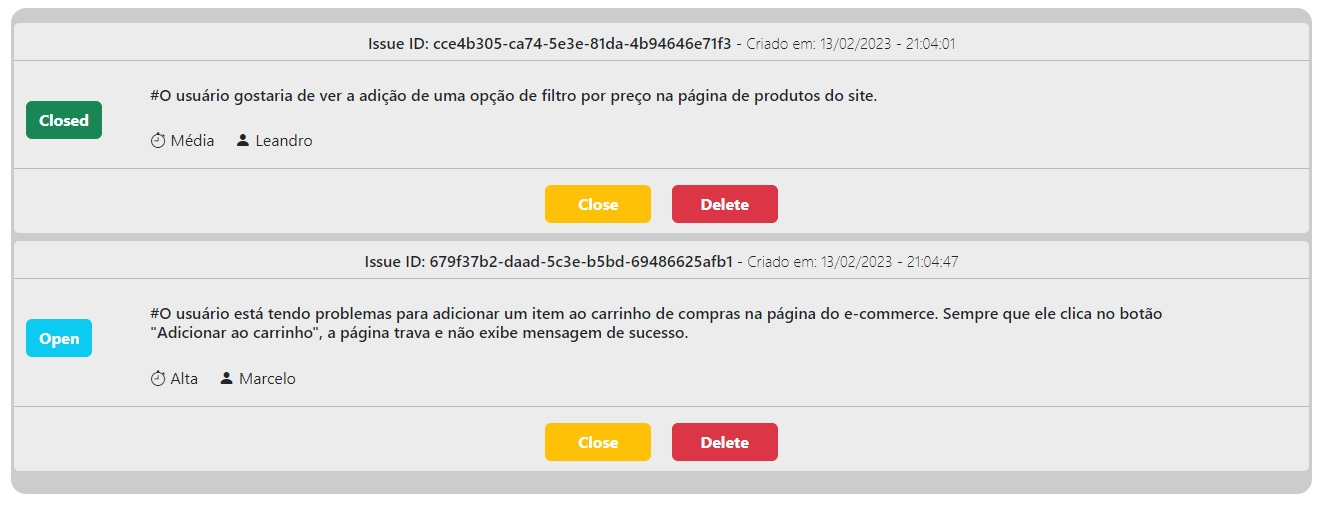
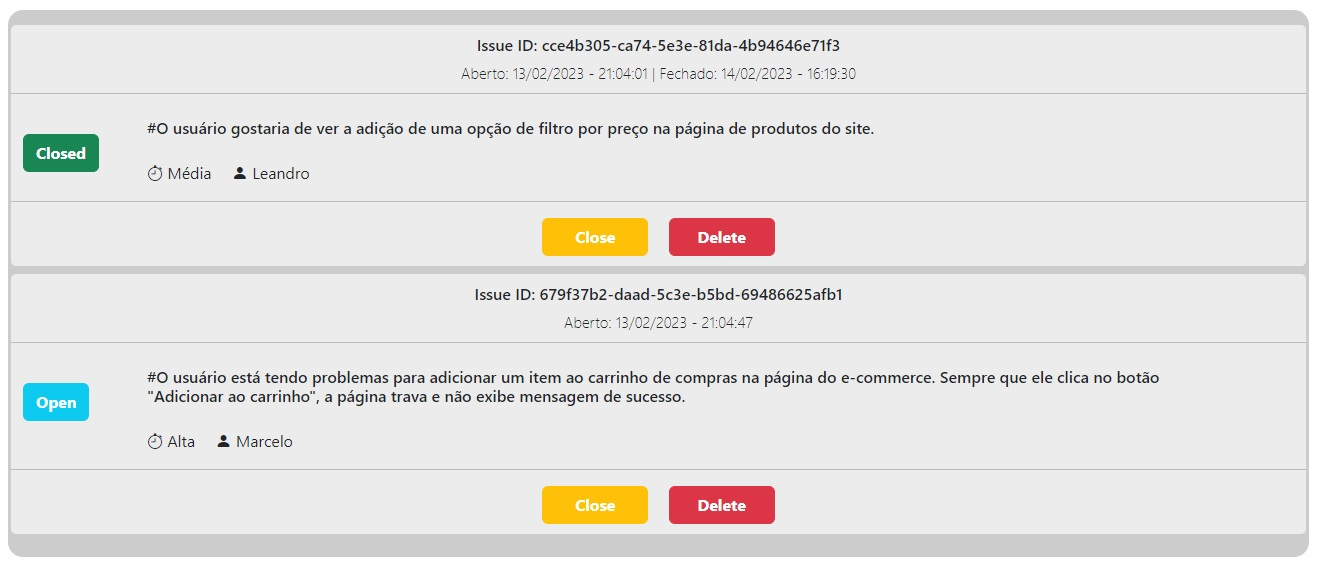
README correção

Changed region(s): [[0.0, 0.0297, 0.9954, 0.9505], [0.28, 0.0594, 0.7155, 0.1485]]

diff --git a/main.js b/main.js
@@ -21,7 +21,8 @@ function saveIssue(e) {
         severity: issueSeverity,
         assignedTo: issueAssignedTo,
         status: issueStatus,
-        createdAt: `${date} - ${time}`
+        createdAt: `${date} - ${time}`,
+        closedAt: null
     };
 
     //Se não tiver, criar um array e adicionar os issues.
@@ -45,10 +46,13 @@ function saveIssue(e) {
 // Mudar o status para fechado.
 function setStatusClosed(id) {
     const issues = JSON.parse(localStorage.getItem("issues"));
+    const date = new Date().toLocaleDateString();
+    const time = new Date().toLocaleTimeString();
 
     for (let c = 0; c < issues.length; c++){
         if(issues[c].id == id) {
             issues[c].status = "Closed";
+            issues[c].closedAt = `${date} - ${time}`;
         }
     }
 
@@ -85,6 +89,7 @@ function fetchIssues() {
         let assignedTo = issues[c].assignedTo;
         let status = issues[c].status;
         let createdAt = issues[c].createdAt;
+        let closedAt = issues[c].closedAt;
         let classStatus;
         
         if(status === "Open"){
@@ -96,7 +101,7 @@ function fetchIssues() {
         //Adicionando as issues.
         issuesList.innerHTML += `
             <div class="issue row mb-2">
-                <p class="h6 col-md-12 text-center"> Issue ID: ${id} <span class="statusDetail">- Criado em: ${createdAt}</span></p>
+                <p class="h6 col-md-12 text-center"> Issue ID: ${id} </p><span class="statusDetail text-center mb-2"> Aberto: ${createdAt} ${closedAt ? ` | Fechado: ${closedAt} `: ""}</span>
                 <hr>
                 <p class="col-md-1 me-3">
                     <span class="label label-info btn ${classStatus} mt-4 statusBtn">${status}</span>
